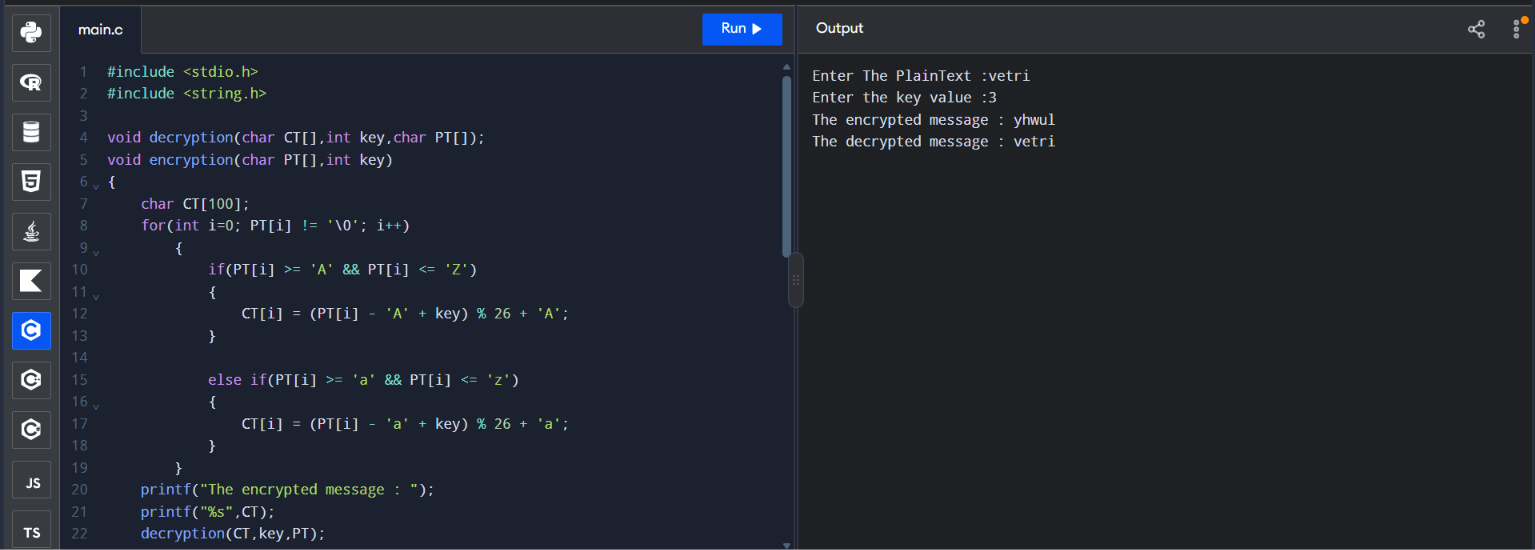
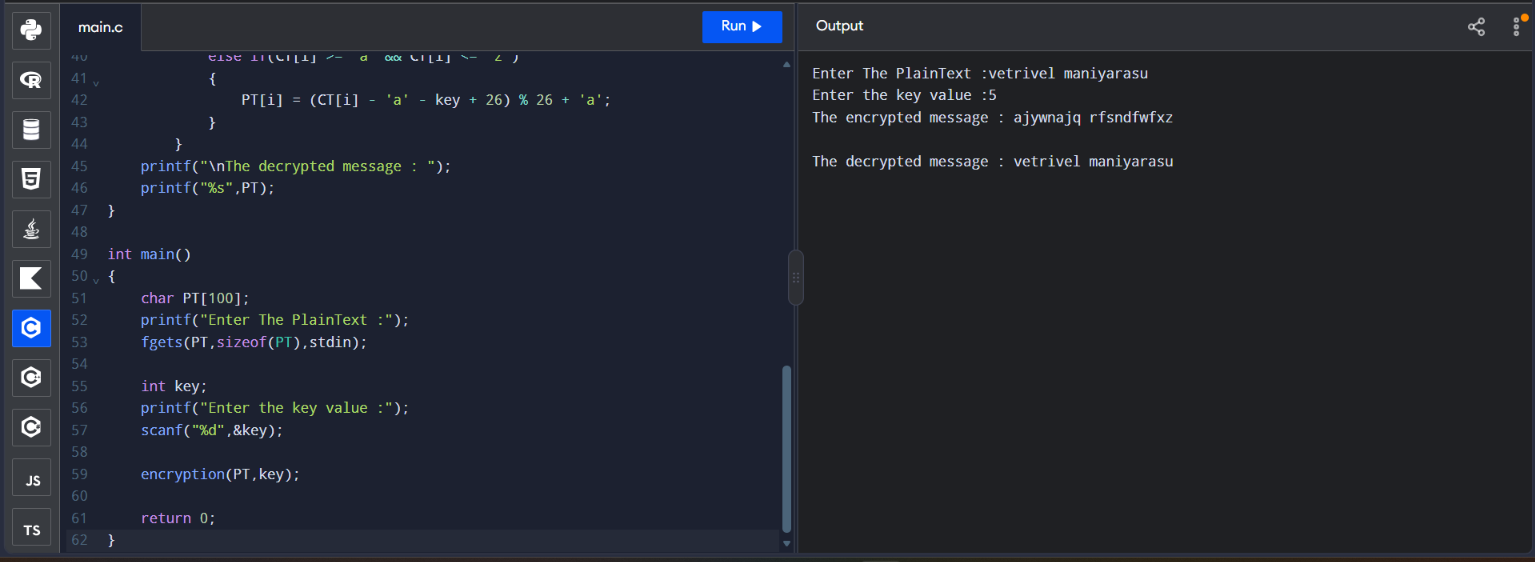
Success

diff --git a/README.md b/README.md
@@ -19,7 +19,7 @@ STEP-4: Else subtract the key from the plain text.
 STEP-5: Display the cipher text obtained above.
 
 ## PROGRAM:
-```
+```c
 #include <stdio.h>
 #include <string.h>
 
